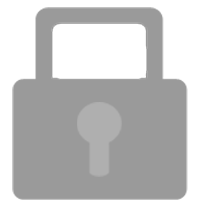
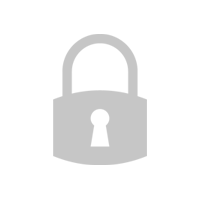
Sakārtots veikals

diff --git a/scriptShop.js b/scriptShop.js
@@ -59,6 +59,8 @@ function showDesigns(){
 
     for(var  i = 0; i<totalDesignCount; i++){
         var chosedDes = "";
+
+
         //var underText = "<b style=\"color: darkgreen;\">Choose</b>";
         var underText = "<img width=\"30px\" src=\"images/choose.png\">";
         if(i==chosedDesign){
@@ -78,7 +80,13 @@ function showDesigns(){
             haventBoughtClass = " canBuy";
         }
 
-        var anotherDesign = "<div onclick=\"chooseDes(" + i + ");\" class=\"designPreviewBox" + chosedDes + haventBoughtClass + "\"> <table><tr><td><img class=\"previewSquane\" src=\" images/pack" + i + "/square-blue.png \"></img> </td><td><img class=\"previewSquane\" src=\" images/pack" + i + "/square-red.png \"></img> </td></tr><tr><td><img class=\"previewSquane\" src=\" images/pack" + i + "/square-green.png \"></img> </td><td><img class=\"previewSquane\" src=\" images/pack" + i + "/square-yellow.png \"></img> </td></tr></table> <span>" + underText + "</span> </div>";        catalog = catalog + anotherDesign;
+        var table = "<table><tr><td><img class=\"previewSquane\" src=\" images/pack" + i + "/square-blue.png \"></img> </td><td><img class=\"previewSquane\" src=\" images/pack" + i + "/square-red.png \"></img> </td></tr><tr><td><img class=\"previewSquane\" src=\" images/pack" + i + "/square-green.png \"></img> </td><td><img class=\"previewSquane\" src=\" images/pack" + i + "/square-yellow.png \"></img> </td></tr></table>";
+
+        if(i>boughtDesigns){
+            table = "<img style='display:table;' width='90px' src='images/lock.png'>"
+        }
+
+        var anotherDesign = "<div onclick=\"chooseDes(" + i + ");\" class=\"designPreviewBox" + chosedDes + haventBoughtClass + "\"> " + table + " <span>" + underText + "</span> </div>";        catalog = catalog + anotherDesign;
     }
     document.getElementById("previewBox").innerHTML = catalog;
 }
